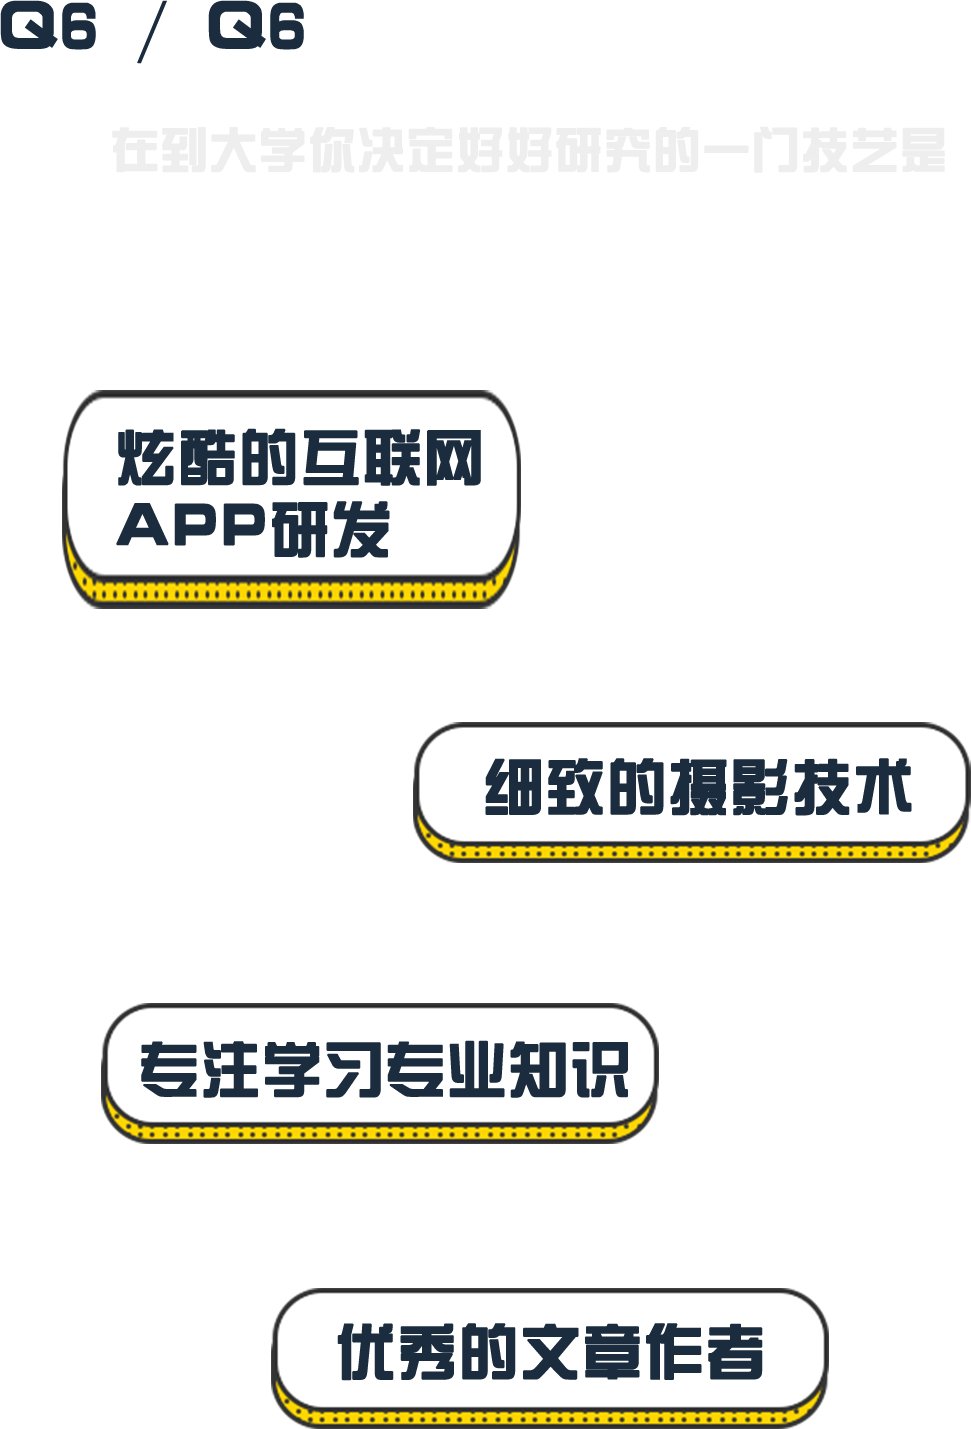
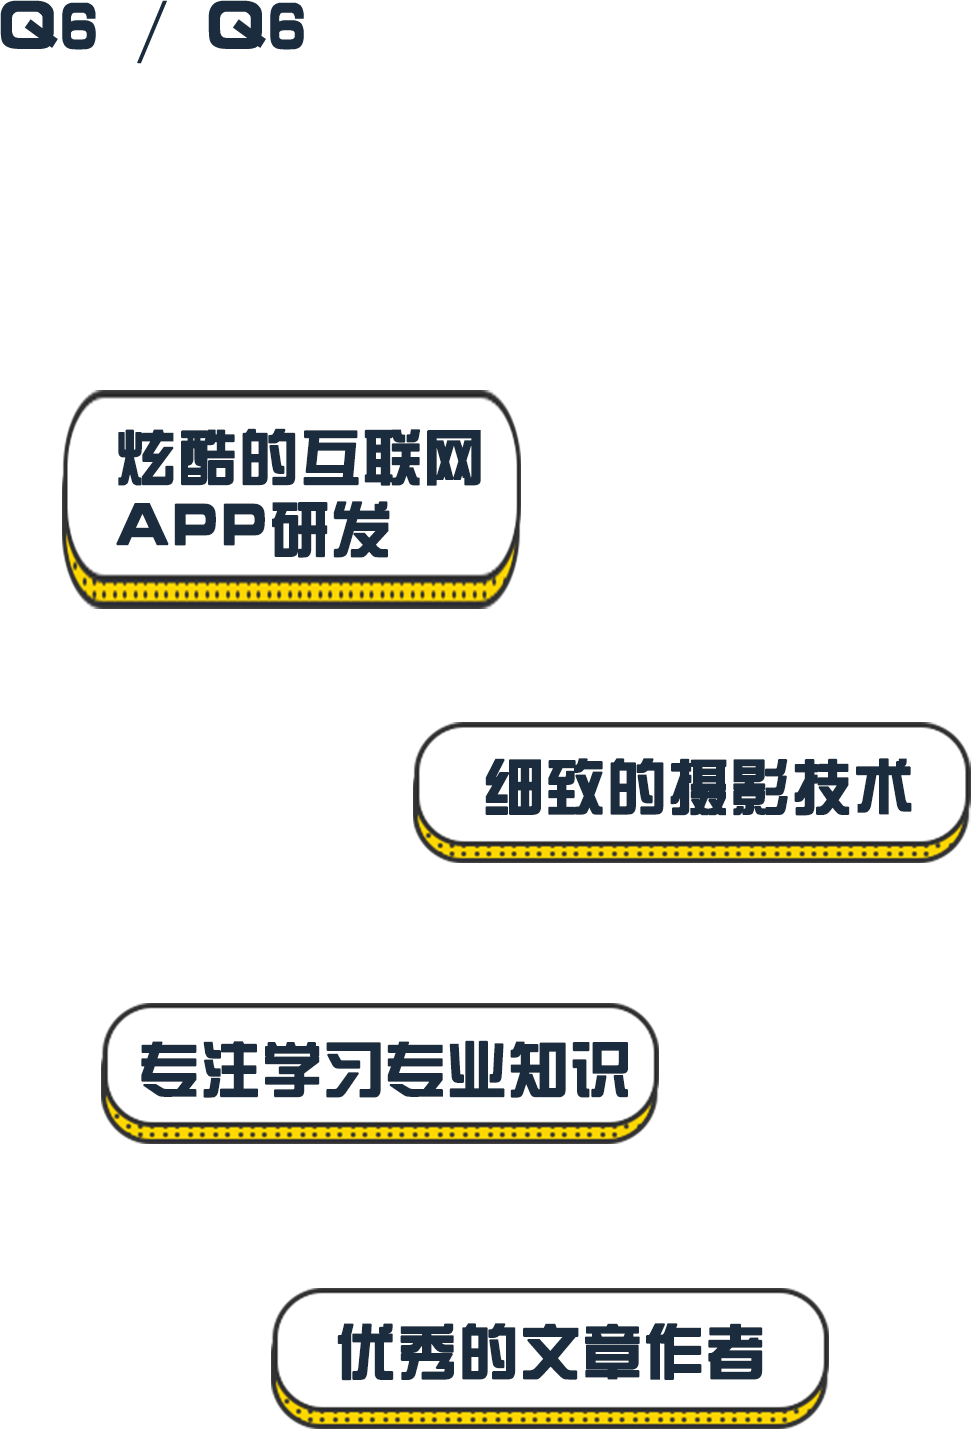
2

Changed region(s): [[0.6179, 0.9237, 0.6488, 0.9545], [0.4634, 0.9237, 0.4943, 0.9545], [0.2472, 0.3079, 0.2781, 0.3387]]

diff --git a/src/App.vue b/src/App.vue
@@ -336,7 +336,7 @@ export default {
   bottom: 15px;
   background-image: url("./assets/img-button.png");
   background-size: 100% 100%;
-  width: 320px;
+  width: 85%;
   height: 80px;
 }
 .lake-class {
@@ -975,6 +975,9 @@ export default {
   .center-class {
     width: 375px;
   }
+  .button-class {
+    width: 320px;
+  }
   .q4-class {
     background-size: 375px 100%;
   }
@@ -1006,6 +1009,9 @@ export default {
 @media screen and (min-width: 450px) {
   .center-class {
     width: 375px;
+  }
+  .button-class {
+    width: 320px;
   }
   .q4-class {
     background-size: 375px 100%;
